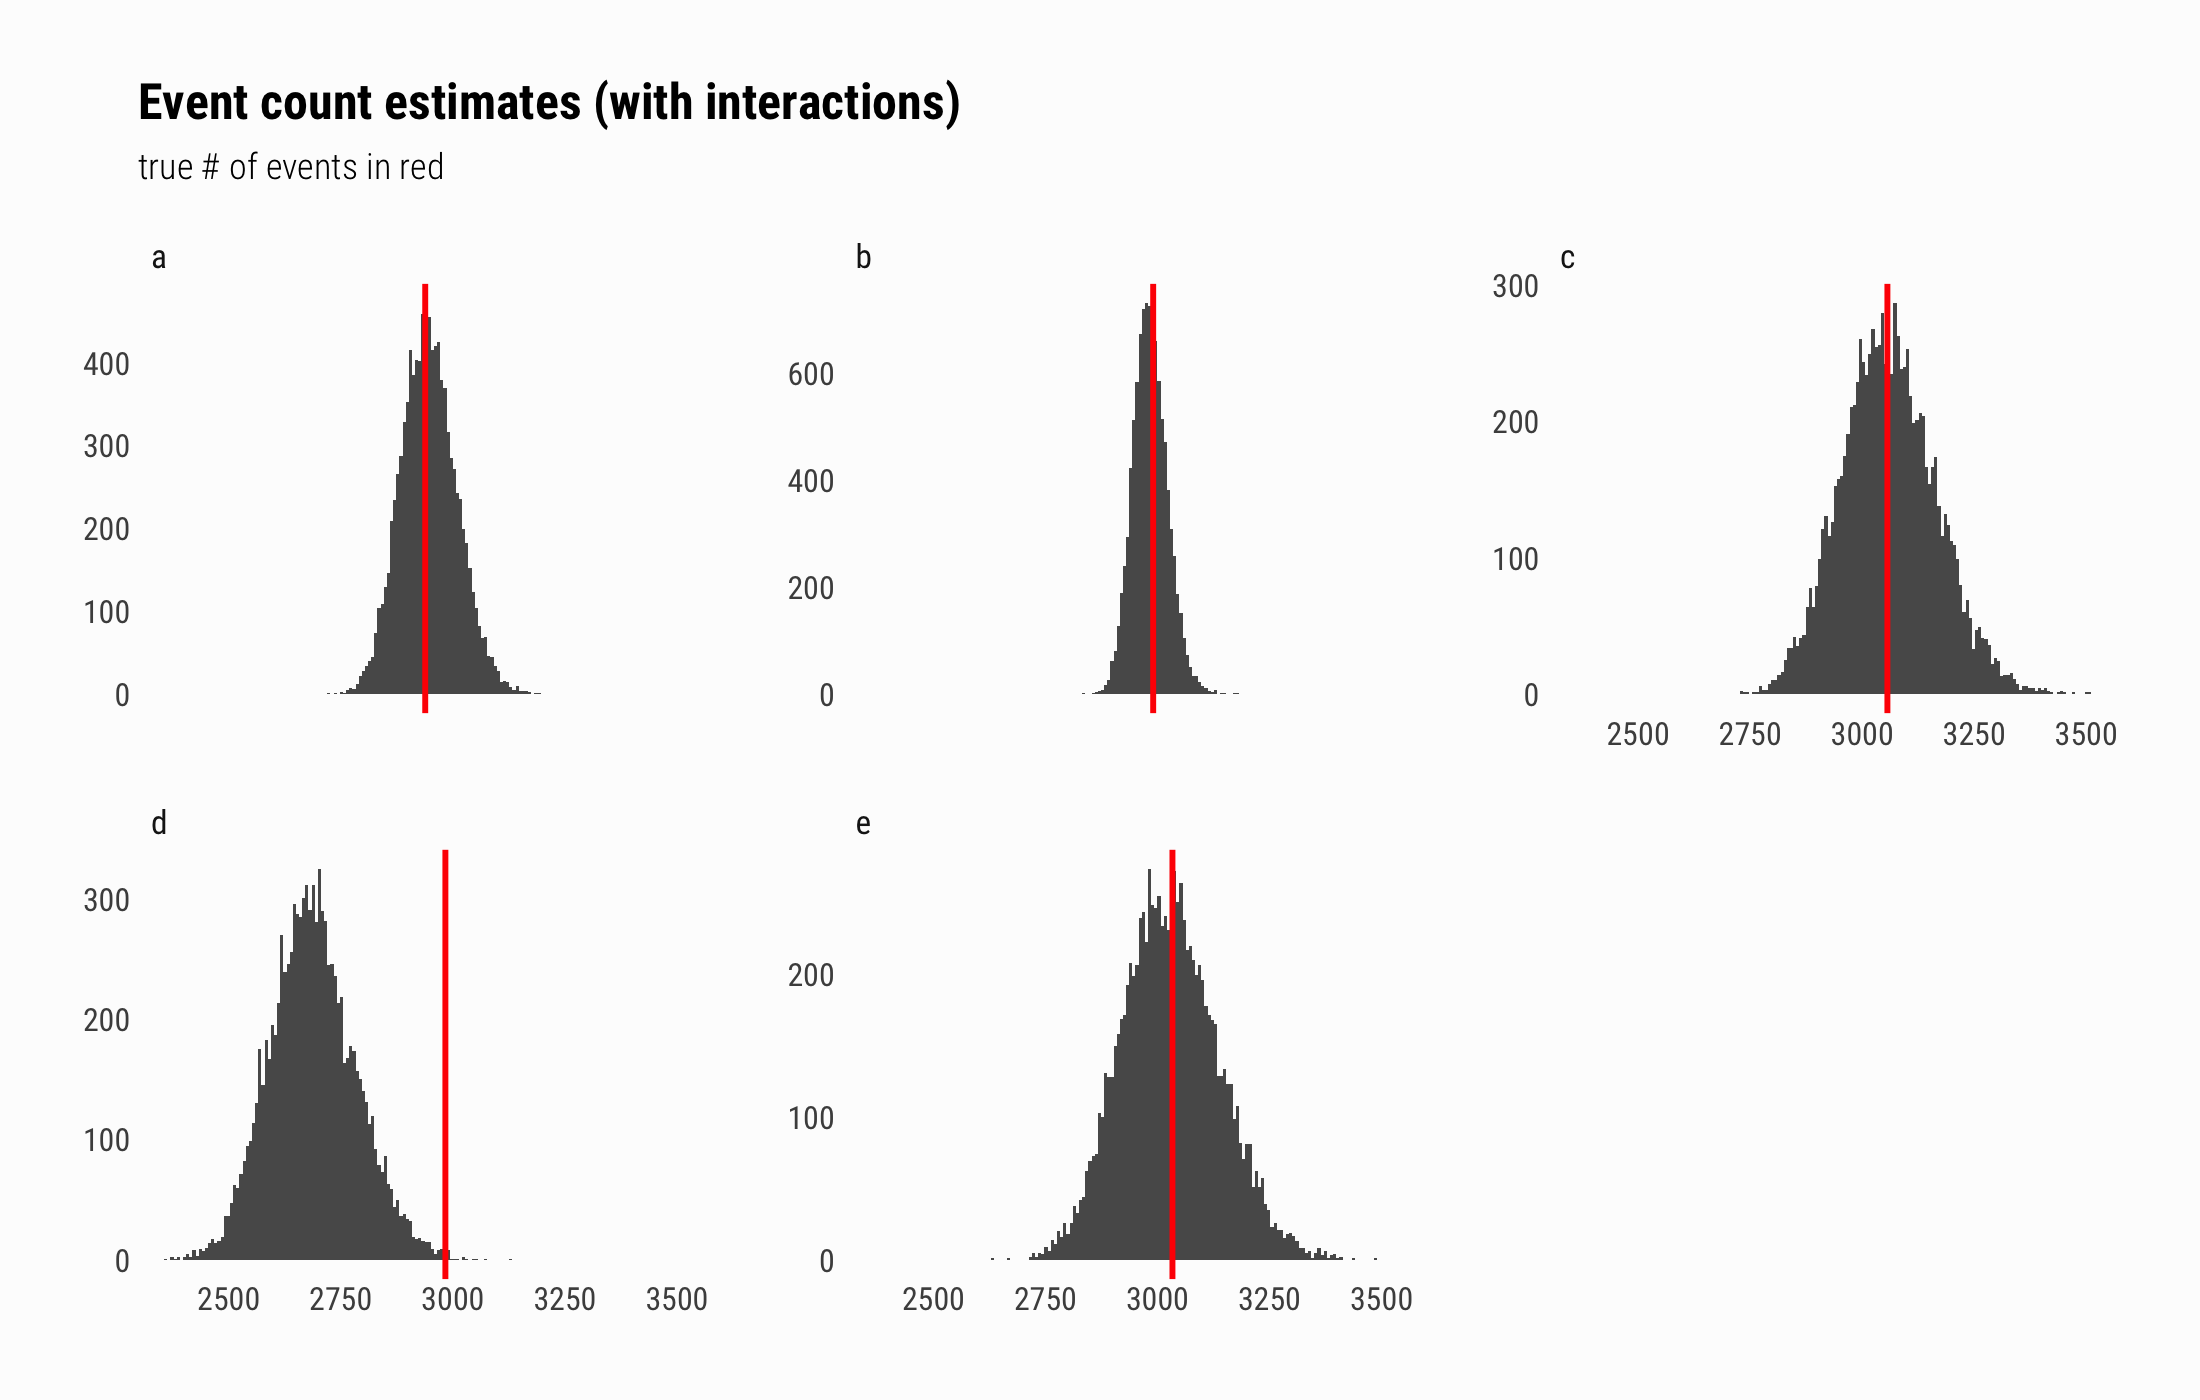
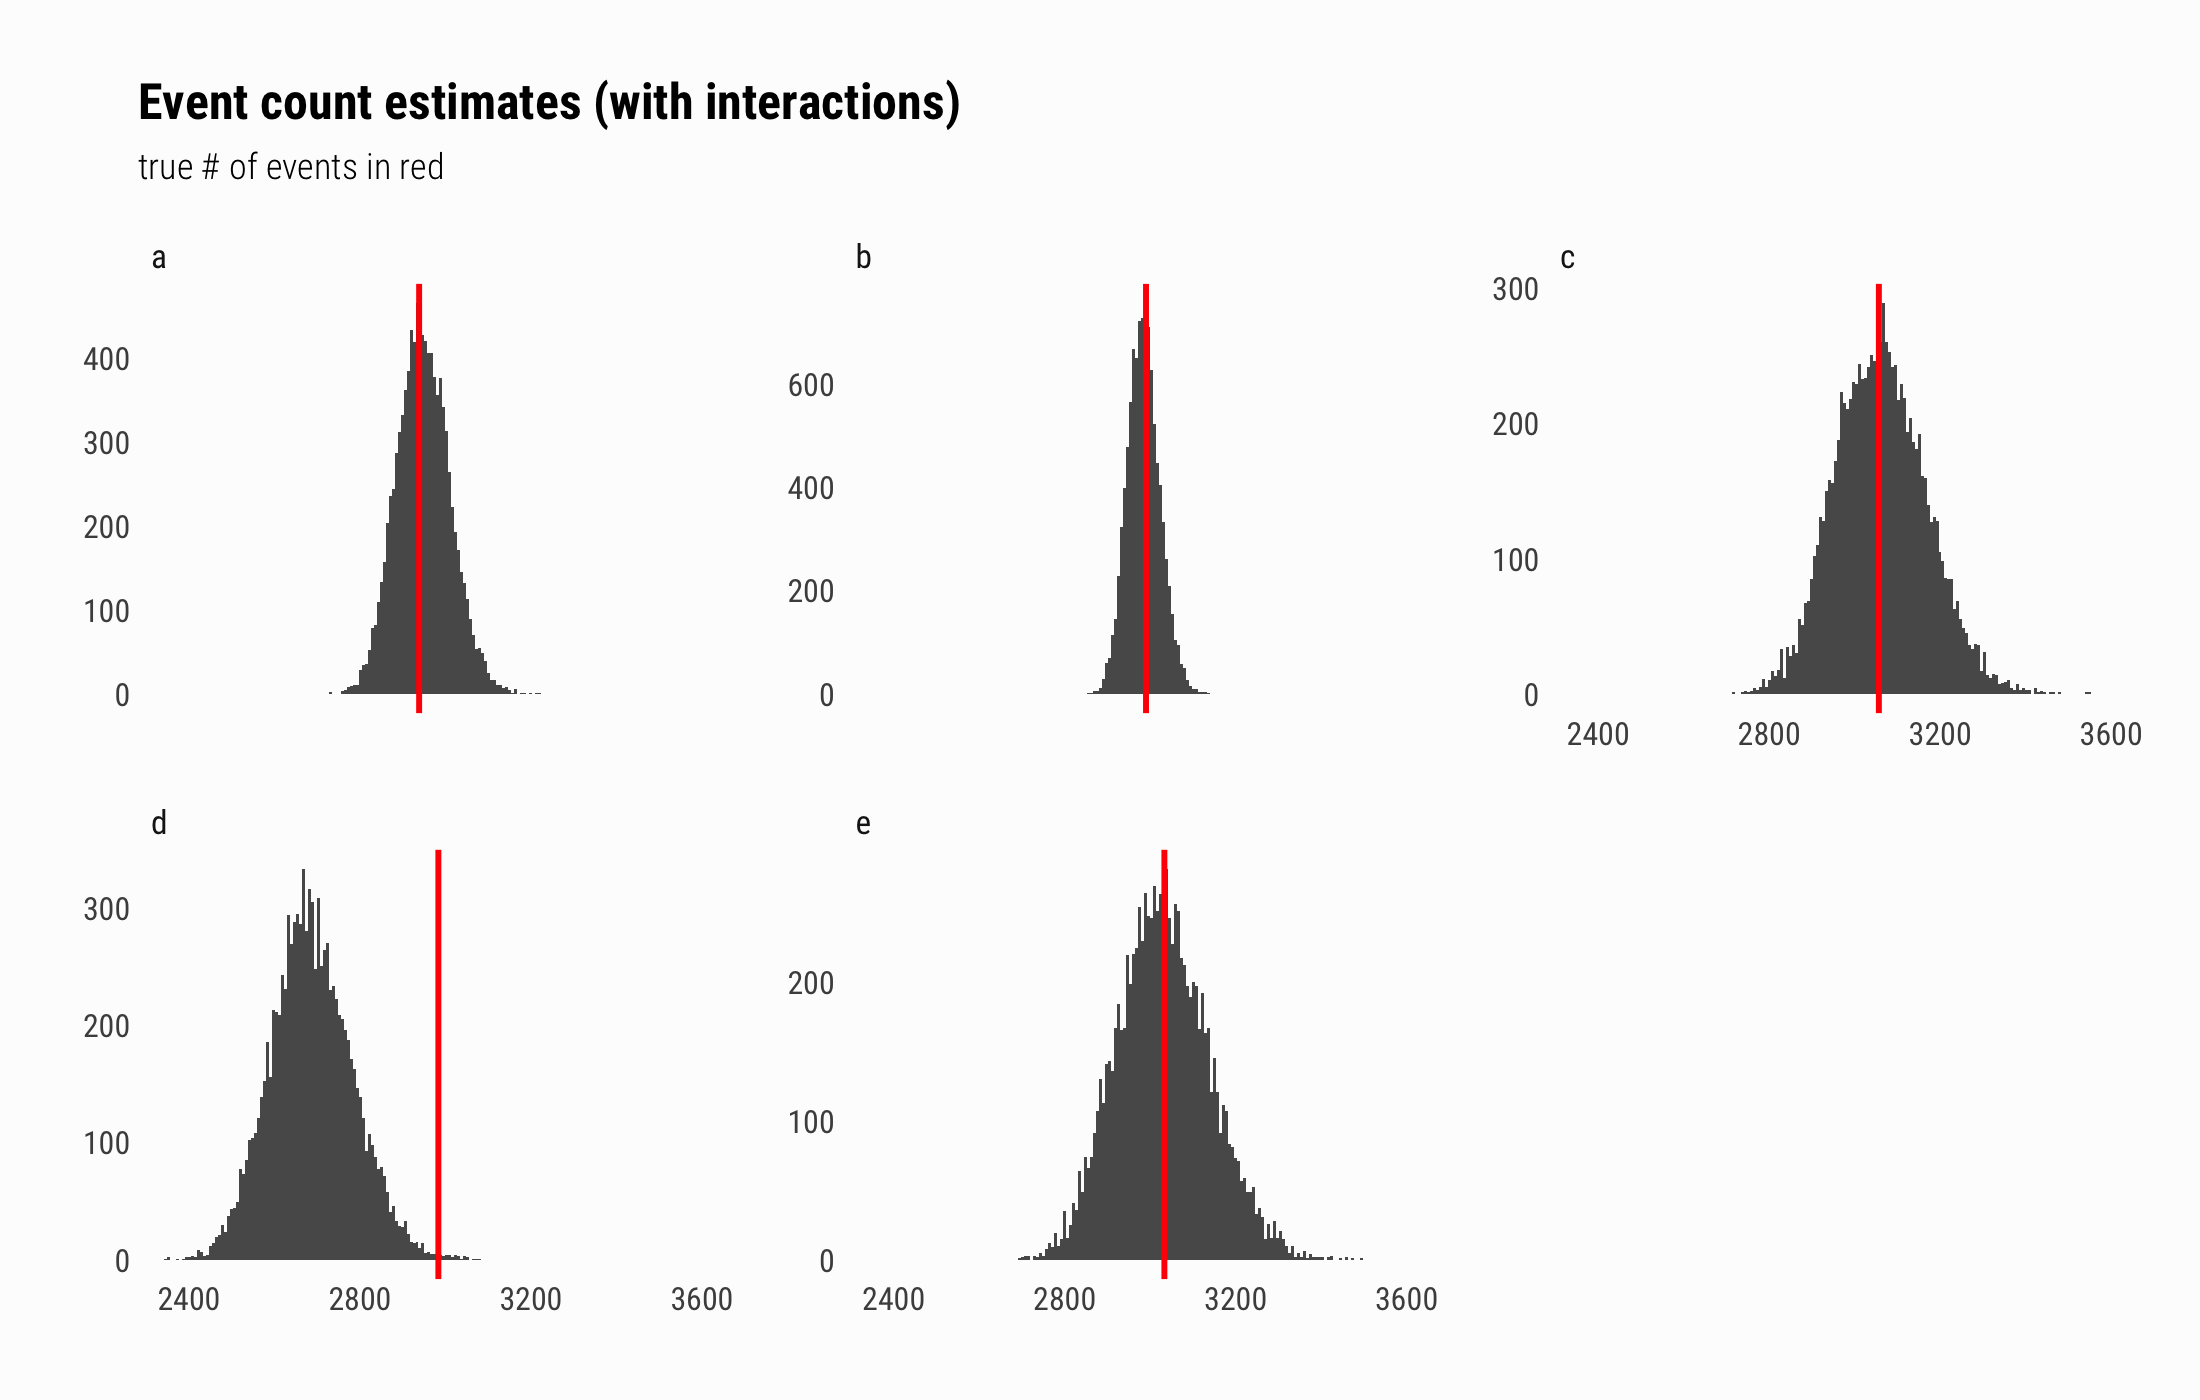
debugging model

diff --git a/mse/list-dependence/README.md b/mse/list-dependence/README.md
@@ -160,20 +160,17 @@ priors <- c(prior(normal(0, 5), nlpar = "main"),
 big_model <- brm(interaction_fx_form,
                  data  = report_smry,
                  prior = priors,
-                 iter  = 5000, chains = 4, cores = 4)
+                 iter  = 5000, chains = 4, cores = 4,
+                 control = list(adapt_delta = .95,
+                                max_treedepth = 15))
 ~~~~
 
     ## Compiling the C++ model
 
-    ## recompiling to avoid crashing R session
-
     ## Start sampling
 
-    ## Warning: There were 97 divergent transitions after warmup. Increasing adapt_delta above 0.8 may help. See
+    ## Warning: There were 17 divergent transitions after warmup. Increasing adapt_delta above 0.95 may help. See
     ## http://mc-stan.org/misc/warnings.html#divergent-transitions-after-warmup
-
-    ## Warning: There were 7385 transitions after warmup that exceeded the maximum treedepth. Increase max_treedepth above 10. See
-    ## http://mc-stan.org/misc/warnings.html#maximum-treedepth-exceeded
 
     ## Warning: Examine the pairs() plot to diagnose sampling problems
 
@@ -201,7 +198,7 @@ get_variables(big_model) %>%
     ## [13] "r_event_class__main[e,Intercept]"
 
 This time around, the model does a better job of estimating the true
-counts:
+counts, although I still underestimate class `d`:
 
 ~~~~ r
 big_model_estimates <- big_model %>%
